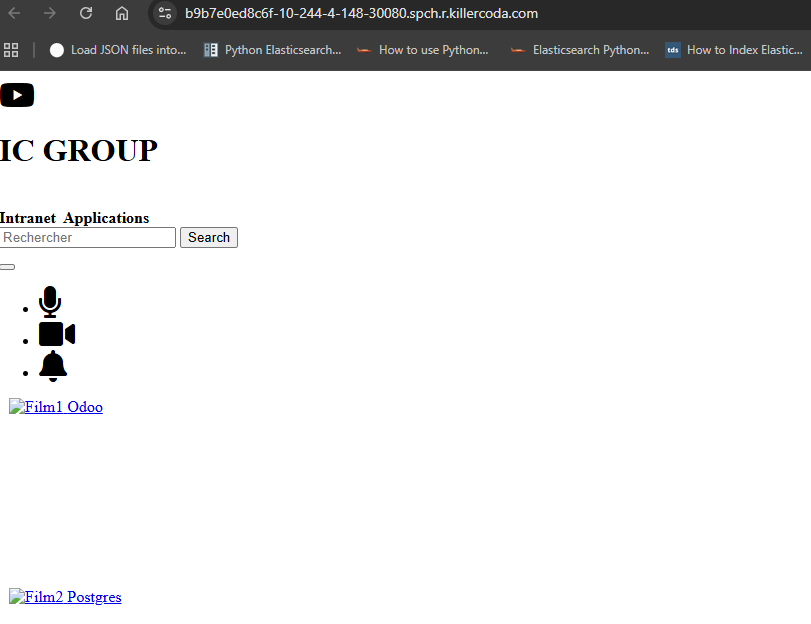
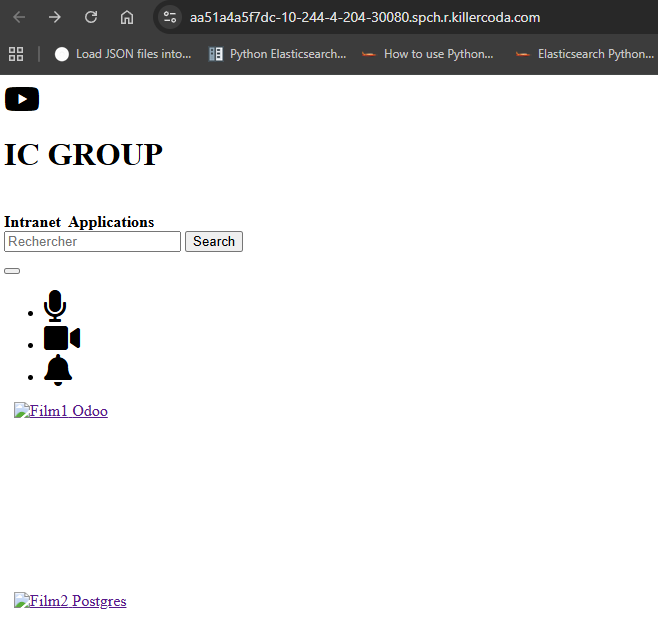
refactor README and update images for Odoo and PgAdmin deployments; remove outdated content

diff --git a/Readme.md b/Readme.md
@@ -256,16 +256,7 @@ kubectl wait --namespace metallb-system \
   --selector=app=metallb \
   --timeout=90s
 
-
-```bash
-# Retrieve the INGRESS_IP
-kubectl get svc -n ingress-nginx ingress-nginx-controller -o jsonpath='{.status.loadBalancer.ingress[0].ip}'
-# Edit the hosts file
-sudo nano /etc/hosts
-# Add the following lines into the aforementionned file
-<INGRESS_IP>  ic-webapp.local
-<INGRESS_IP>  odoo.local
-<INGRESS_IP>  pgadmin.local
+kubectl apply -f loadbalancer/metallb-config.yml
 ```
 
 b) **Architecture**
@@ -291,6 +282,10 @@ kubectl apply -f k8s/deployments/odoo-deployment.yml
 kubectl apply -f k8s/services/odoo-service.yml
 # Augmenter les replicas
 kubectl scale deployment odoo -n icgroup --replicas=2
+# Verification
+kubectl get -n icgroup -l app=odoo
+kubectl logs -n icgroup -l app=odoo
+kubectl port-forward svc/odoo-service 30069:8069 -n icgroup --address 0.0.0.0
 ```
 
 **![Pods checking](./images/deploiement/odoo_k8s_deploy.png)**
@@ -299,35 +294,37 @@ To access the odoo app, do the following:
 
 **![Access traffic port](./images/deploiement/traffic_port.png)**
 
-**![Access odoo app](./images/deploiement/access_odoo_killercoda.png)**
+**![Access odoo app](./images/deploiement/odoo-port.png)**
 
-**![Check odoo app](./images/deploiement/odoo_deploy_via_k8s.png)**
+**![Check odoo app](./images/deploiement/odoo-overview.png)**
 
 d) **PgAdmin application deployment**
 
 ```bash
 kubectl apply -f k8s/deployments/pgadmin-deployment.yml
 kubectl apply -f k8s/services/pgadmin-service.yml
+# Verification
+kubectl get -n icgroup -l app=pgadmin
+kubectl logs -n icgroup -l app=pgadmin
+kubectl port-forward svc/pgadmin-service 30050:80 -n icgroup --address 0.0.0.0
 ```
 
 **![Check pgadmin service part1](./images/deploiement/pgadmin_k8s_deploy_part1.png)**
 
-Because of limited resources, I tested the pgadmin service via this command:
-```bash
-kubectl run test-curl --rm -it \
-  --namespace=icgroup \
-  --image=curlimages/curl \
-  --restart=Never \
-  -- curl -v http://pgadmin-service/login
-``` 
+**![Accessing pgadmin](./images/deploiement/pgadmin-port.png)**
 
-**![Check pgadmin service part2](./images/deploiement/pgadmin_k8s_deploy_part2.png)**
+**![IC-Webapp Overview](./images/deploiement/pgadmin-overview.png)**
+
 
 e) ic-webapp deployment
 
 ```bash
 kubectl apply -f k8s/deployments/ic-webapp-deployment.yml
 kubectl apply -f k8s/services/ic-webapp-service.yml
+# Verification
+kubectl get -n icgroup -l app=ic-webapp
+kubectl logs -n icgroup -l app=ic-webapp
+kubectl port-forward svc/ic-webapp-service 30080:8080 -n icgroup --address 0.0.0.0
 ```
 
 **![IC-Webapp pods](./images/deploiement/ic-webapp-pods.png)**
@@ -336,26 +333,6 @@ kubectl apply -f k8s/services/ic-webapp-service.yml
 
 **![IC-Webapp Overview](./images/deploiement/ic-webapp-overview.png)**
 
-f) Verification
-
-```bash
-# Vérifier le namespace
-kubectl get ns icgroup
-
-# Vérifier toutes les ressources
-kubectl get all -n icgroup -l env=prod
-
-# Vérifier les pods
-kubectl get pods -n icgroup
-
-# Vérifier les logs
-kubectl logs -n icgroup -l app=odoo
-kubectl logs -n icgroup -l app=postgres
-kubectl logs -n icgroup -l app=pgadmin
-kubectl logs -n icgroup -l app=ic-webapp
-
-# Vérifier la persistance
-kubectl get pv,pvc -n icgroup
 ```
 
 **NB:**
